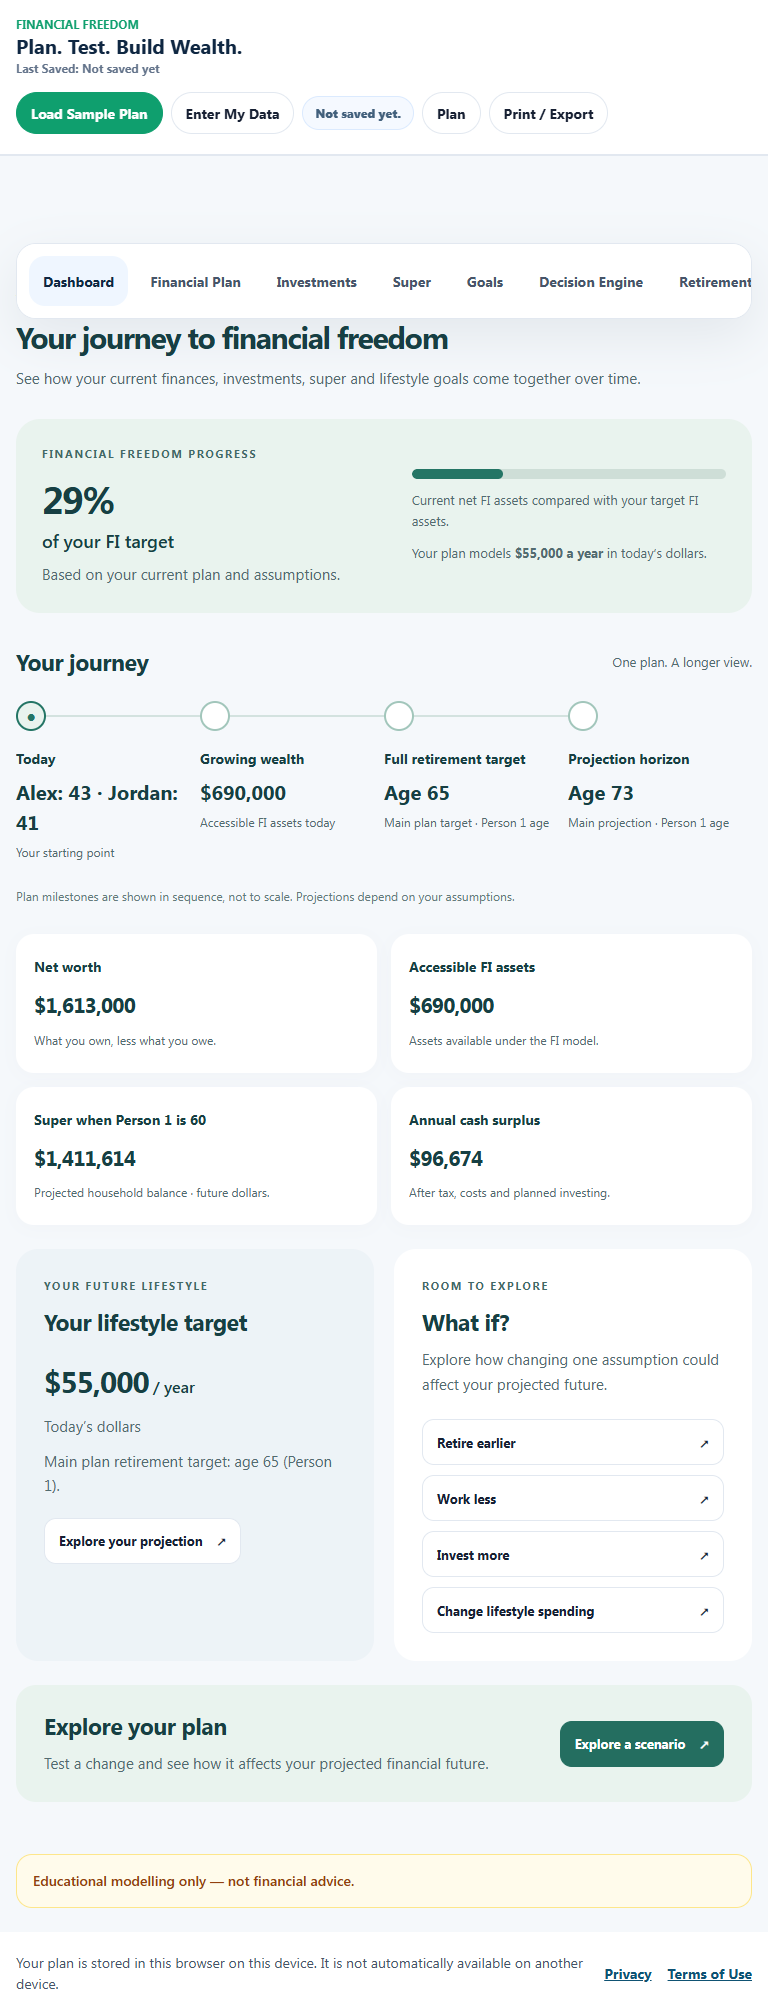
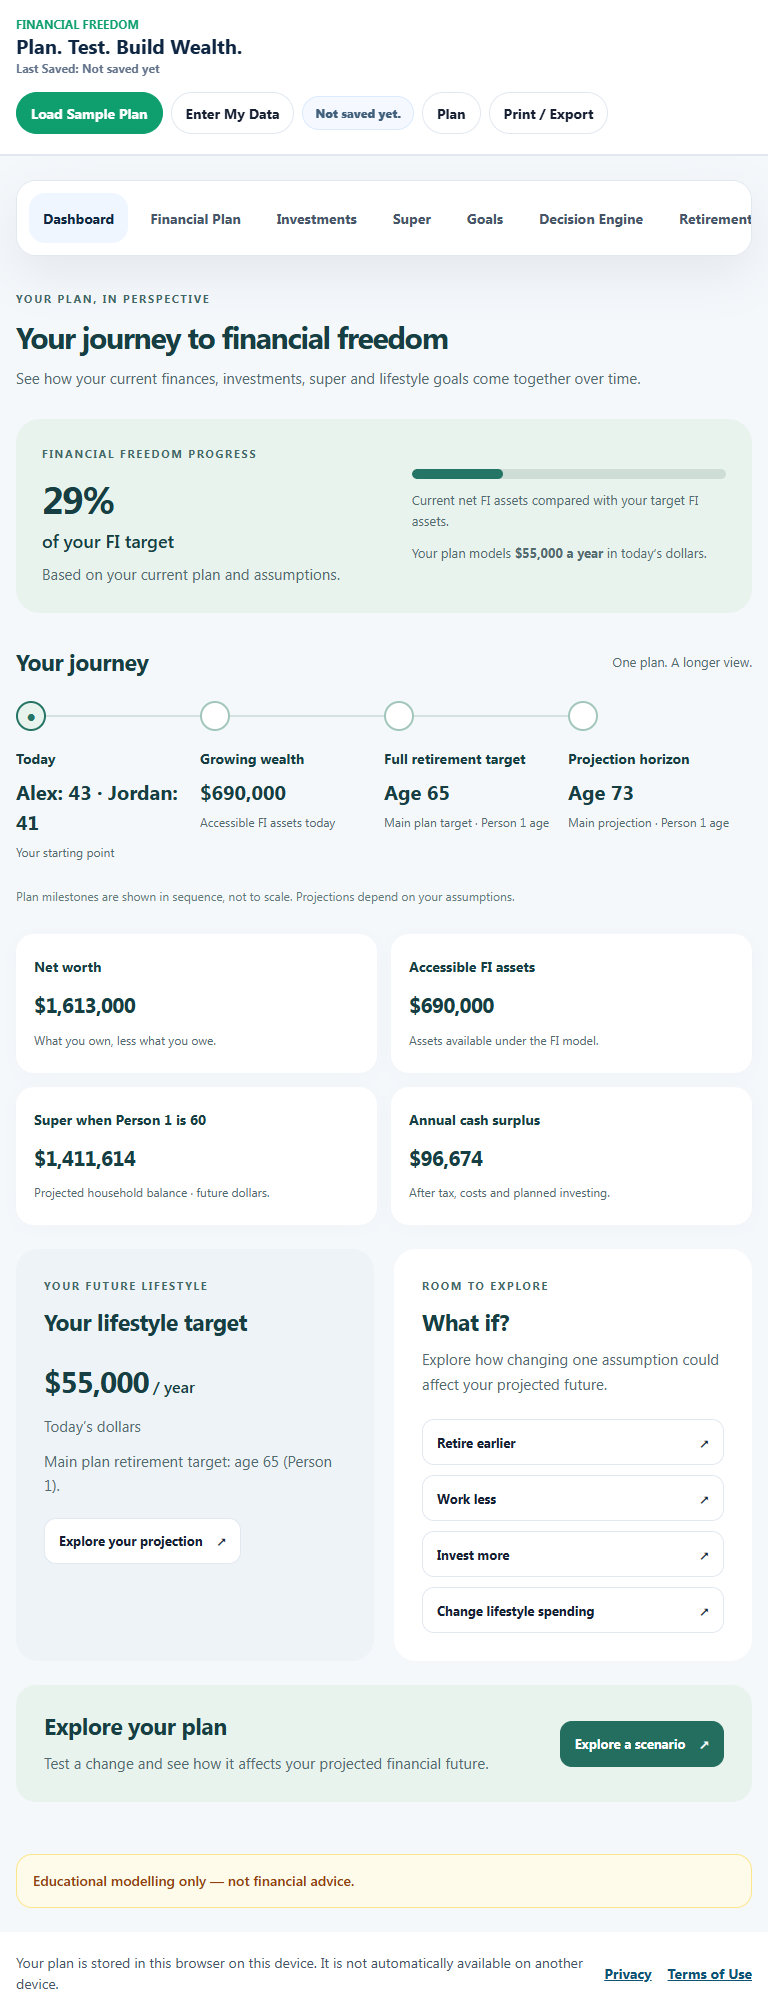
Refine small-screen navigation and preview verification evidence

diff --git a/journey-dashboard.css b/journey-dashboard.css
@@ -5,7 +5,7 @@ body.journey-experiment #appWorkspace > div > div,
 #journeyDashboard { min-width: 0; max-width: 100%; }
 [data-view-panel="dashboard"].journey-mode > :not(#journeyDashboard) { display: none !important; }
 .journey-dashboard { --journey-ink: #173f43; --journey-muted: #526b70; font-family: system-ui, -apple-system, "Segoe UI", sans-serif; color: var(--journey-ink); max-width: 1200px; margin: 0 auto; padding: 12px 0 28px; }
-.journey-dashboard * { box-sizing: border-box; min-width: 0; }
+.journey-dashboard * { box-sizing: border-box; min-width: 0; font-family: inherit; }
 .journey-dashboard strong { font-family: inherit; }
 .journey-dashboard p { color: var(--journey-muted); font-size: 15px; line-height: 1.65; margin: 10px 0 0; }
 .journey-dashboard h1 { font-size: clamp(30px, 3.2vw, 43px); line-height: 1.14; letter-spacing: -1.3px; font-weight: 750; max-width: 690px; margin: 12px 0; }
@@ -51,4 +51,5 @@ body.journey-experiment #appWorkspace > div > div,
 .journey-next { display: flex; justify-content: space-between; align-items: center; gap: 24px; padding: 26px 28px; border-radius: 20px; background: #e9f3ee; }
 .journey-next .btn { flex-shrink: 0; }
 @media(max-width: 900px) { .journey-snapshot { grid-template-columns: repeat(2,minmax(0,1fr)); } .journey-progress { gap: 24px; padding: 26px; } .journey-scenarios { grid-template-columns: 1fr; } }
+@media(max-width: 1023px) { body.journey-experiment .workspace-nav { position: relative; top: auto; } }
 @media(max-width: 600px) { .journey-dashboard { padding-top: 4px; } .journey-progress,.journey-two-up { grid-template-columns: 1fr; } .journey-progress,.journey-card { padding: 24px 20px; border-radius: 18px; } .journey-section-heading { align-items: flex-start; flex-direction: column; gap: 6px; } .journey-metric { padding: 18px 13px; } .journey-snapshot { gap: 10px; } .journey-next { flex-direction: column; align-items: stretch; padding: 24px 20px; } .journey-next .btn { justify-content: center; } .journey-path-section { margin-top: 28px; } }
